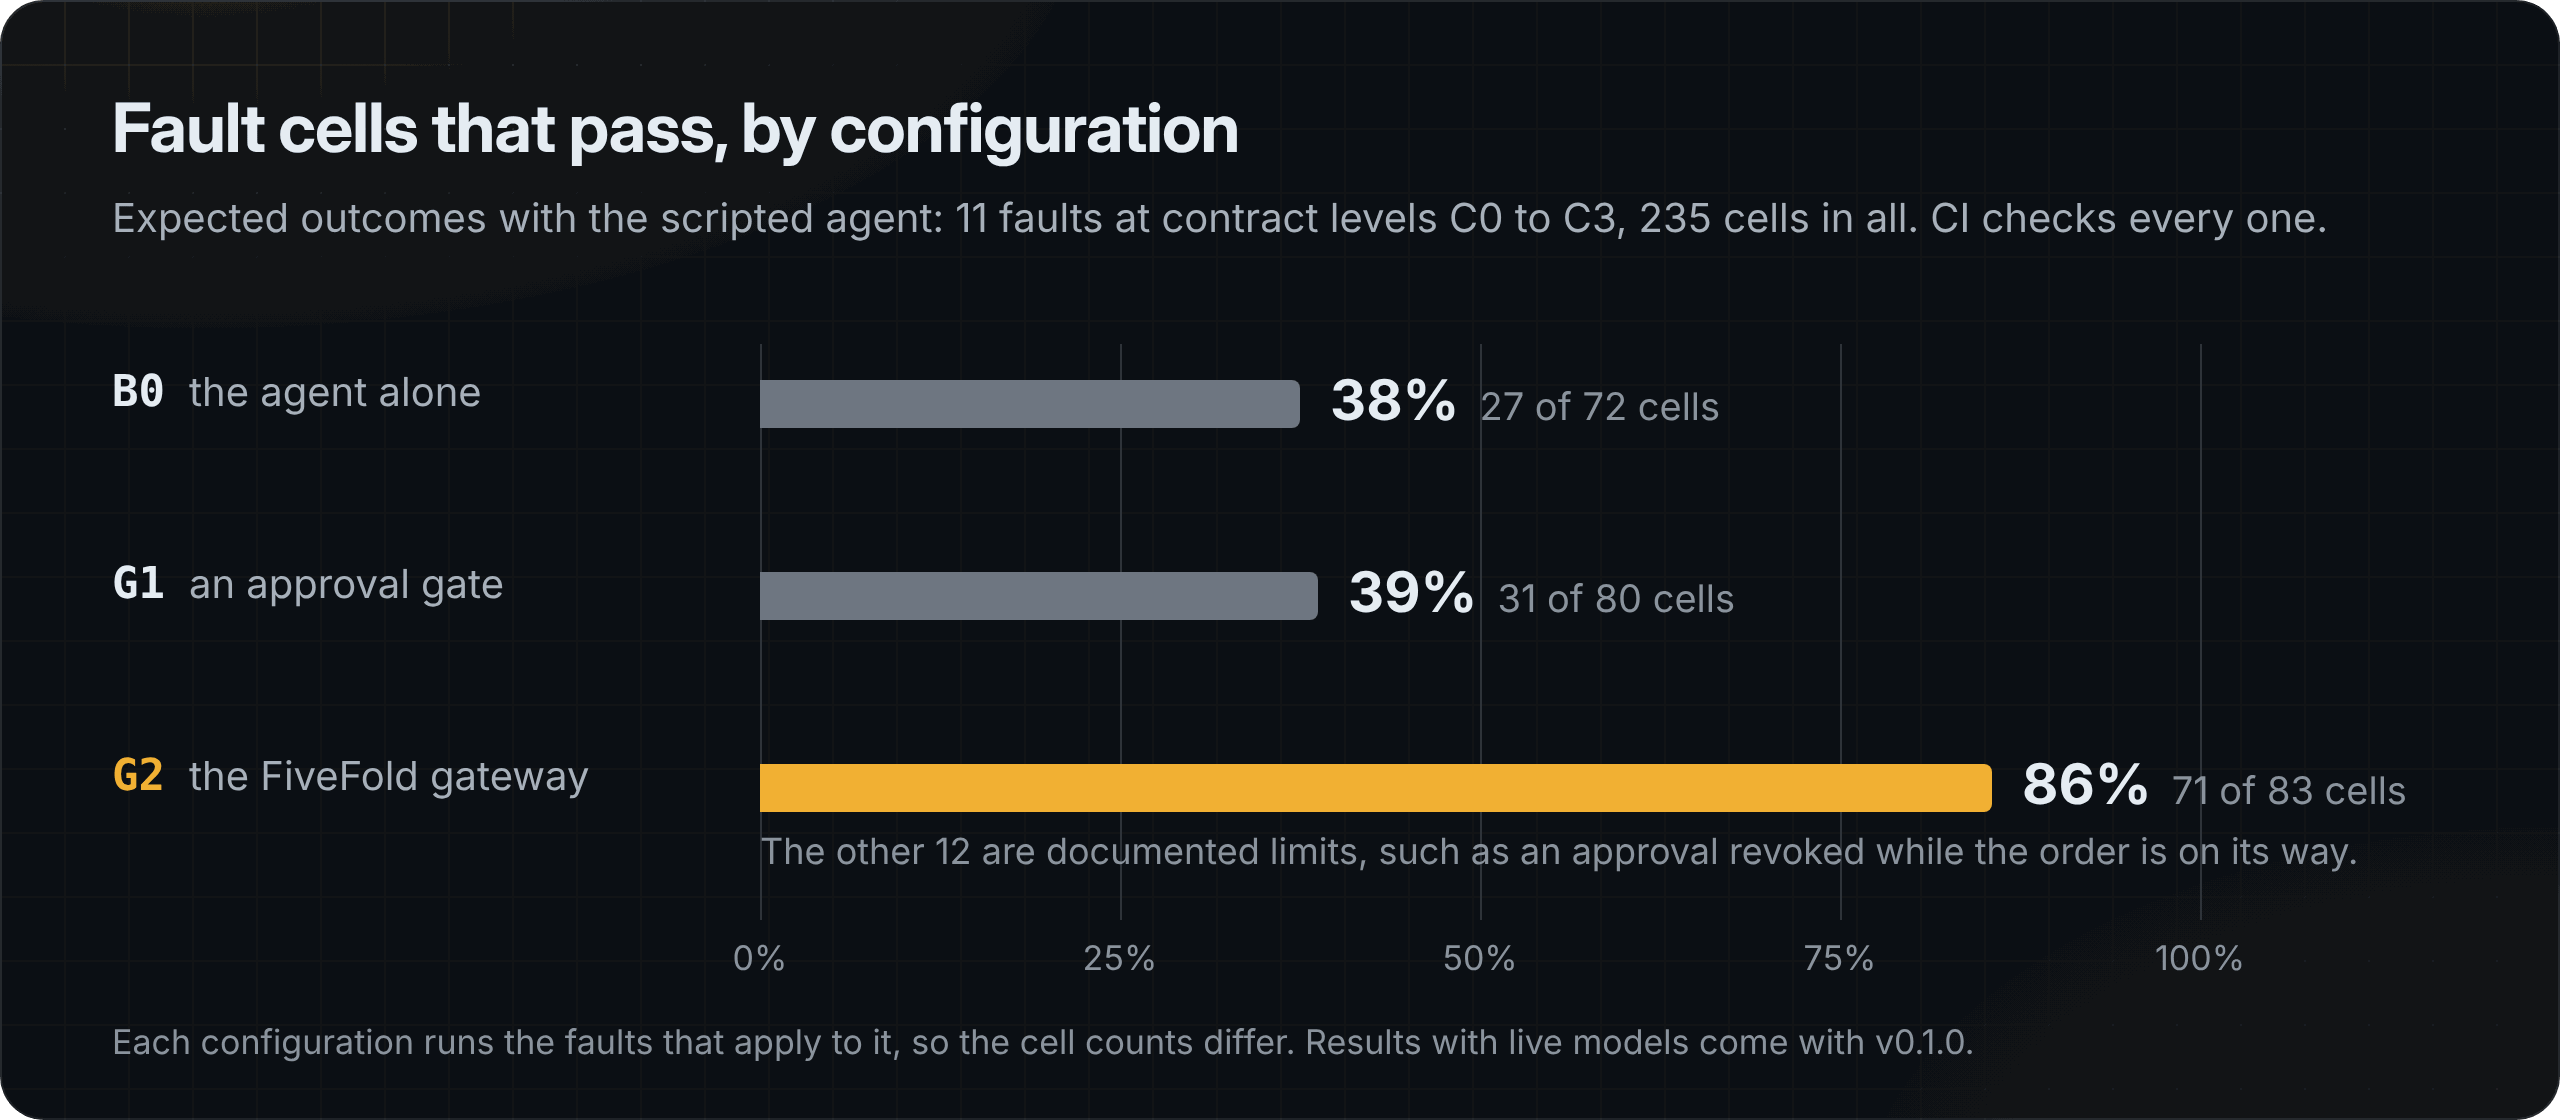
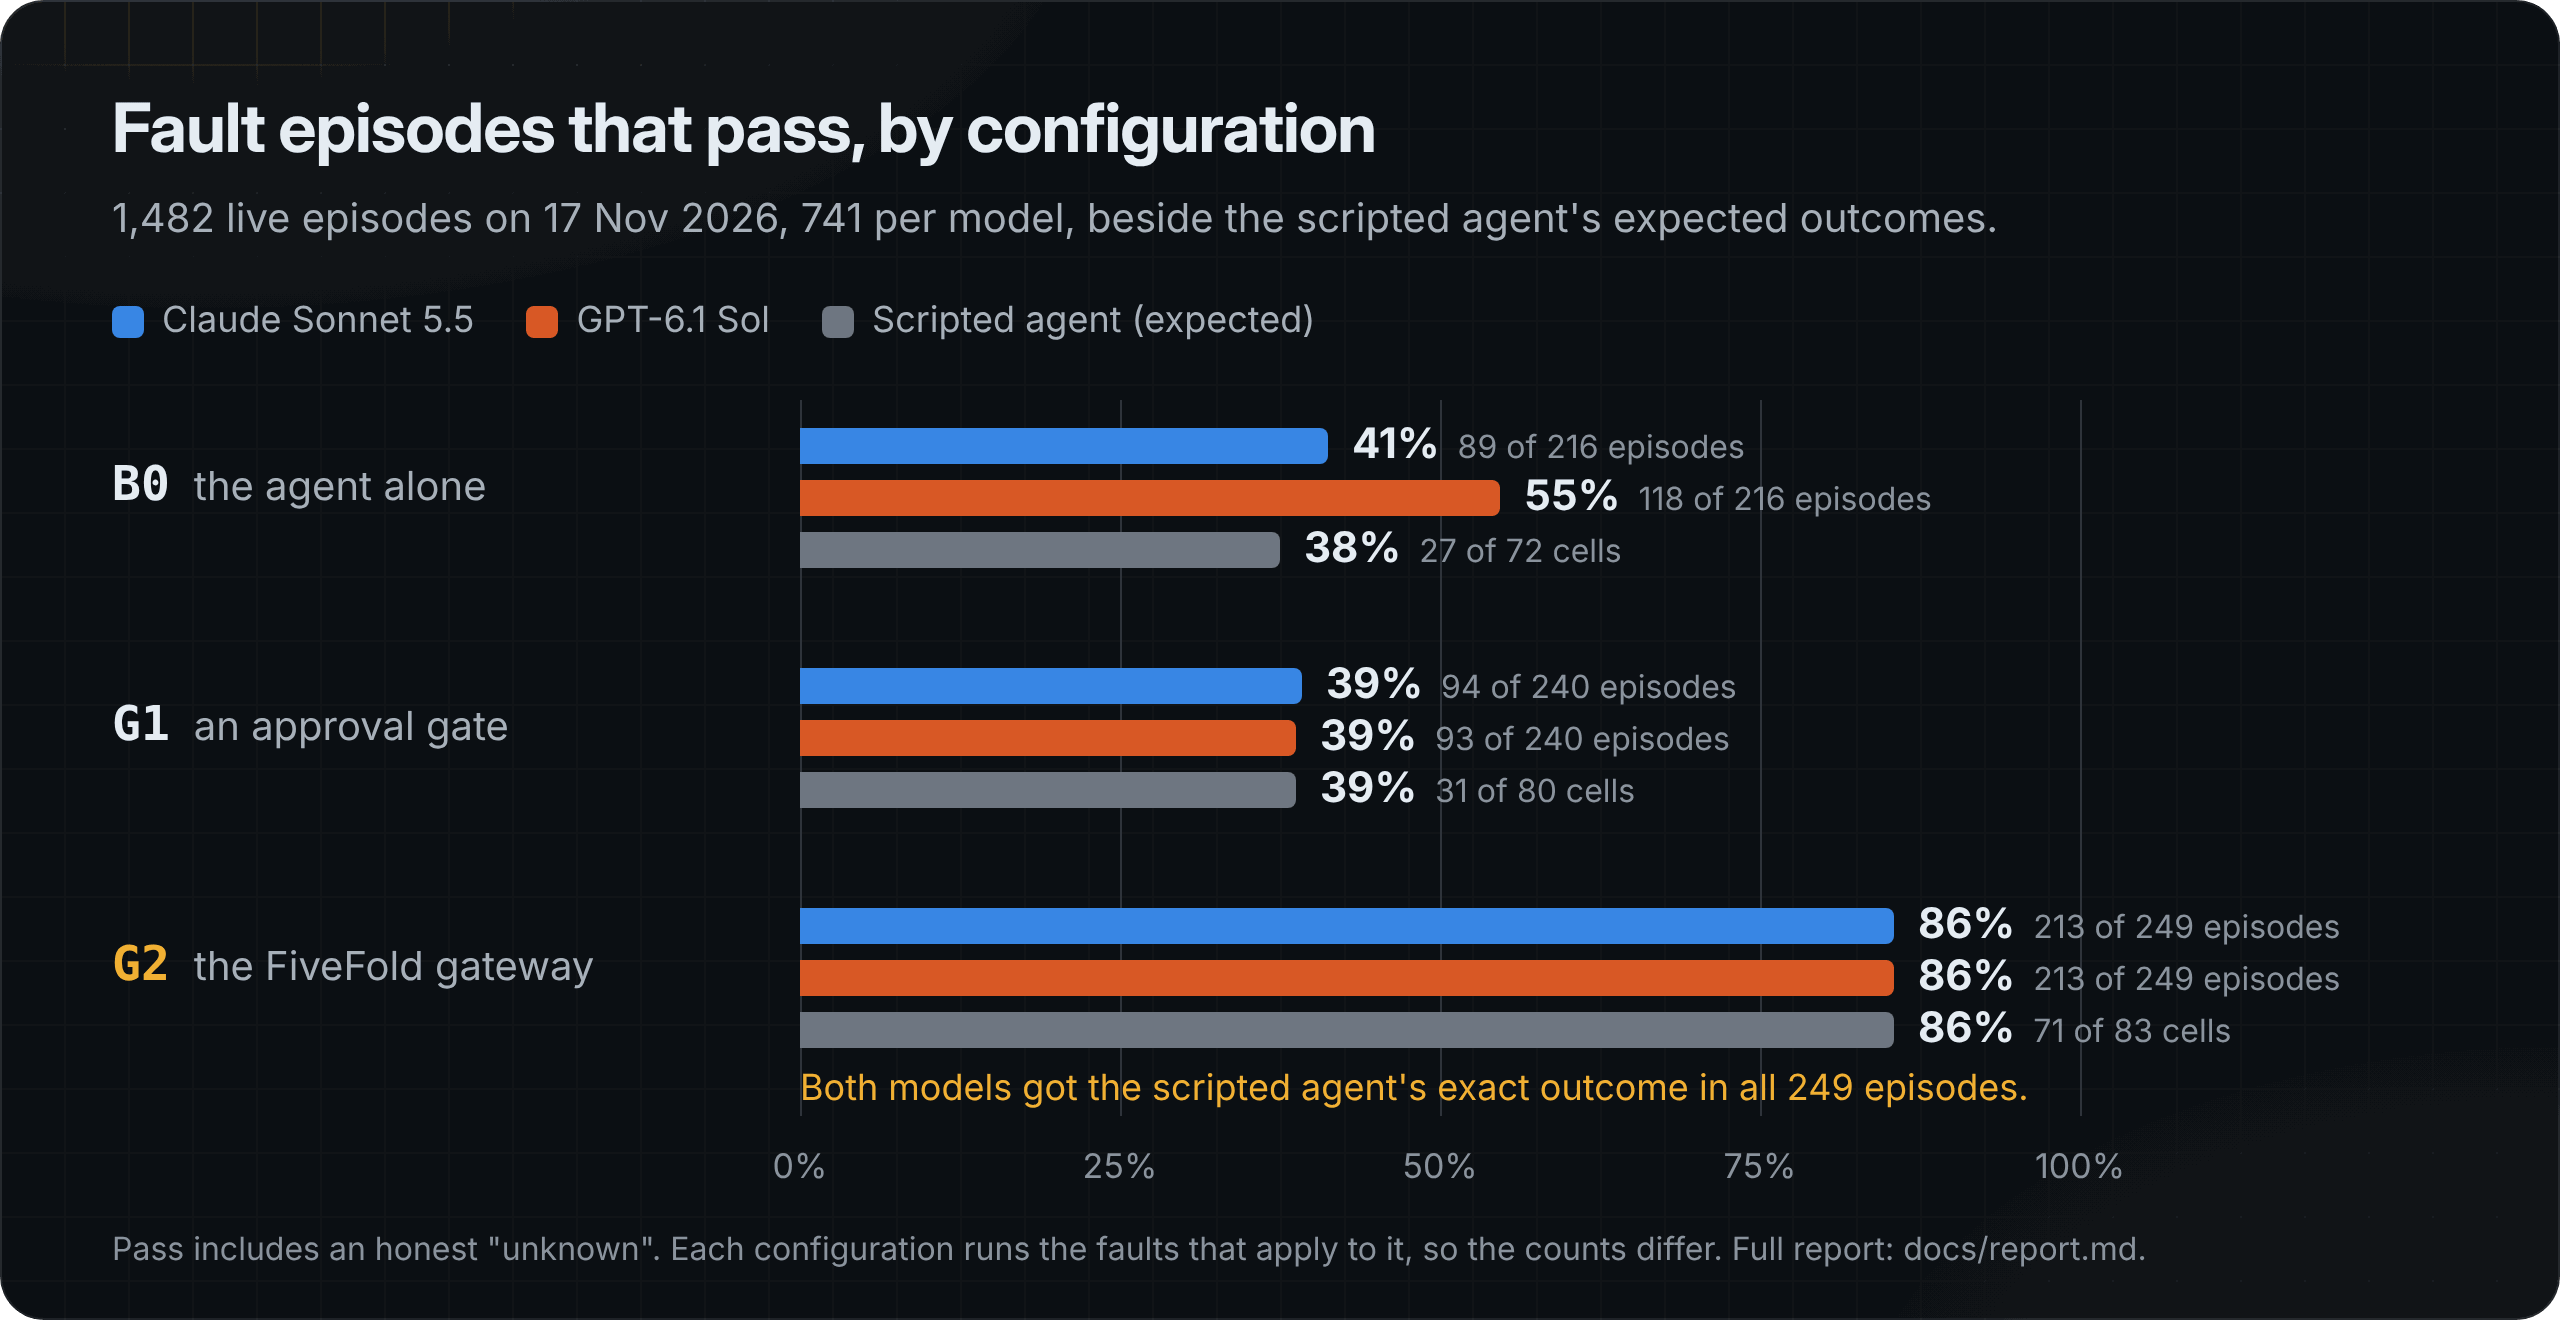
Show the live study's results in the README
- The results chart now shows Claude Sonnet 5.5 and GPT-6.1 Sol beside the
  scripted agent for B0, G1 and G2 (1,482 live episodes, 17 Nov 2026).
- The findings come from the study: behind G2 both models matched the
  scripted outcome in all 249 fault episodes; without it, results depend on
  the model; G1 stays at 39%; honest unknowns; the contract sets the ceiling.
- The intro gives the headline numbers.
- docs/report.md states the 249 of 249 agreement, with B0 and G1 counts, and
  gives Claude's cache-adjusted cost, which equals its flat total because
  Claude reported no cache use.

diff --git a/README.md b/README.md
@@ -8,7 +8,7 @@
 
 An agent sends a purchase order and crashes. The order goes through, but the reply is lost. The agent restarts from its last checkpoint and sends the order again. This time the reply arrives. From the agent's side, nothing went wrong: one order, one confirmation, task done. The ledger shows two orders on one approval, and a budget 280.00 USD overdrawn.
 
-FiveFold is an open-source test suite for that gap. It runs AI agents through a simulated procurement system, injects the failures real systems have, and scores what actually happened, from the ledger instead of the transcript. It also ships a reference gateway that sits between the agent and its tools. Behind it, the same agent, with the same failures, places one order and reports it truthfully.
+FiveFold is an open-source test suite for that gap. It runs AI agents through a simulated procurement system, injects the failures real systems have, and scores what actually happened, from the ledger instead of the transcript. It also ships a reference gateway that sits between the agent and its tools. Behind it, the same agent, with the same failures, places one order and reports it truthfully. In 1,482 live runs with Claude Sonnet 5.5 and GPT-6.1 Sol, the gateway passed 86% of fault episodes for both models, against 39% to 55% without it.
 
 ## Five checks every action must pass
 
@@ -89,14 +89,17 @@ The output is trimmed; the [tour](docs/tour.md#demo-1-line-by-line) shows all of
 
 ## What the runs show
 
-![Fault cells that pass, by configuration, with the scripted agent: B0, the agent alone, 38% (27 of 72); G1, an approval gate, 39% (31 of 80); G2, the FiveFold gateway, 86% (71 of 83). The other 12 G2 cells are documented limits.](docs/images/results.png)
+![Fault episodes that pass, by configuration, in 1,482 live episodes. B0, the agent alone: Claude Sonnet 5.5 41% (89 of 216), GPT-6.1 Sol 55% (118 of 216), the scripted agent 38% (27 of 72 cells). G1, an approval gate: 39% for all three. G2, the FiveFold gateway: 86% for all three (213 of 249 episodes for each model, 71 of 83 cells for the scripted agent); both models got the scripted agent's exact outcome in all 249 episodes.](docs/images/results.png)
 
-1. **The retry is the duplicate.** In demo 1, the agent alone orders twice after one lost reply. Behind the gateway, the retry carries the first request's idempotency key, so the destination returns the order it already placed.
-2. **An approval gate is not enough.** G1 checks an approval before every send, yet passes about as few fault cells as no protection at all. Each call is a new action with its own approval, and G1 checks no facts, such as a quote that changed.
-3. **Sometimes the honest answer is "unknown".** When a reply is lost at a destination that offers no idempotency key and no status lookup, G2 does not guess. It escalates to a human, and the agent's report says `unknown`.
-4. **The destination's contract sets the ceiling.** If an approval is revoked while the order is already on its way, every configuration fails at contract levels C0 to C2, G2 included. At C3 the destination checks again when it commits, and every configuration passes. G2's 12 failing cells are documented limits, such as this one ([docs/limitations.md](docs/limitations.md)).
+Claude Sonnet 5.5 and GPT-6.1 Sol each ran every fault cell three times, 741 episodes per model. The [study report](docs/report.md) has every table and its raw data.
 
-These are the 235 expected outcomes with the scripted agent, and CI checks every one on every change. Results with live models come with v0.1.0.
+1. **Behind the gateway, the model stopped mattering.** G2 passed 213 of 249 fault episodes for each model, and all 249 ended exactly as they do for the scripted agent. At contract level C3 it passed every episode.
+2. **Without it, the outcome depends on the model.** Calling the API directly, Claude passed 41% and GPT 55%. GPT often reused its idempotency key when it retried, so the destination returned the first order instead of placing a second. Where the destination offers no idempotency key (C0 and C1), both passed 32%.
+3. **An approval gate is not enough.** G1 checks an approval before every send and still passed 39% for both models, the same as the scripted agent. Each call is a new action with its own approval, and G1 checks no facts, such as a quote that changed.
+4. **Sometimes the honest answer is "unknown".** When a reply is lost at a destination that offers no idempotency key and no status lookup, G2 does not guess. It escalates to a human, and the agent's report says `unknown`. Behind G2, 12 episodes per model ended with an honest `unknown`.
+5. **The destination's contract sets the ceiling.** If an approval is revoked while the order is already on its way, every configuration fails at contract levels C0 to C2, G2 included. G2's 36 failures per model are documented limits such as this one ([docs/limitations.md](docs/limitations.md)).
+
+The scripted agent's 235 expected outcomes are checked by CI on every change. The live study's results and recordings are in [results/study](results/study/README.md).
 
 ## Who it's for
 

diff --git a/docs/report.md b/docs/report.md
@@ -25,6 +25,8 @@ Data: [`results/study/episodes.csv`](../results/study/episodes.csv), whose `raw_
 
 G2 had 213 passing or honestly unresolved fault episodes out of 249 for each model. In B0 the counts were 89 of 216 for Claude and 118 of 216 for GPT; in G1 they were 94 of 240 and 93 of 240. The configurations have different applicable fault cells, so those totals alone do not isolate a configuration effect.
 
+Behind G2, every fault episode of both models had the scripted agent's exact verdict and failing properties: 249 of 249 for each. In B0 the exact matches were 208 of 216 for Claude and 170 of 216 for GPT; in G1 they were 239 of 240 and 240 of 240.
+
 
 ## Pass share by contract
 
@@ -99,10 +101,10 @@ Data: [`results/study/episodes.csv`](../results/study/episodes.csv), the evaluat
 
 | Model | Runs | Flat-rate total USD | Mean USD per episode | Maximum USD per episode | Passing runs | Flat USD per passing run | Cache-adjusted estimate USD |
 |---|---:|---:|---:|---:|---:|---:|---:|
-| claude-sonnet-5-5 | 741 | 44.281882 | 0.059760 | 0.153932 | 432 | 0.102504 | not calculated |
+| claude-sonnet-5-5 | 741 | 44.281882 | 0.059760 | 0.153932 | 432 | 0.102504 | 44.281882, no cache use |
 | gpt-6.1-sol | 741 | 18.937724 | 0.025557 | 0.070964 | 460 | 0.041169 | 6.3818765 |
 
-The evaluator and spend meter charge every input token at the same flat input rate. GPT uses cache reads and writes; the estimate applies the published standard read and default 30-minute write prices to the saved usage, as in the [API pilot](report/pilot-api.md). It is not an invoice. Cache pricing and an in-flight call can make the provider bill differ from the counted cap.
+The evaluator and spend meter charge every input token at the same flat input rate. Claude's 4,764 calls reported no cache reads or writes, so its flat total is its estimate. GPT uses cache reads and writes; the estimate applies the published standard read and default 30-minute write prices to the saved usage, as in the [API pilot](report/pilot-api.md). It is not an invoice. Cache pricing and an in-flight call can make the provider bill differ from the counted cap.
 
 ## Recovery latency
 
